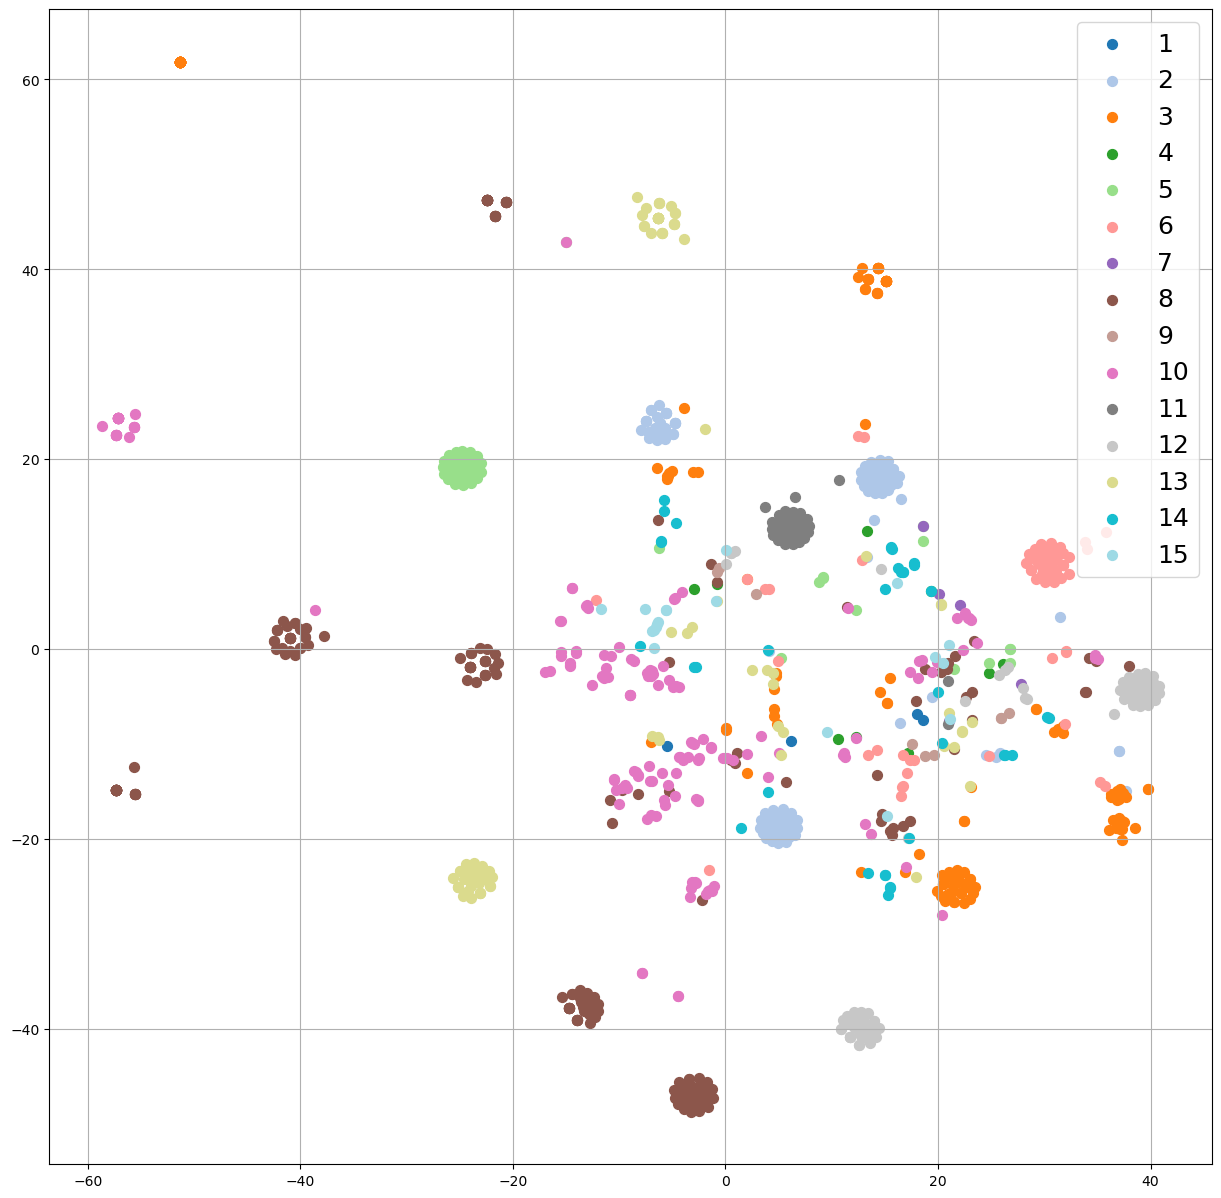
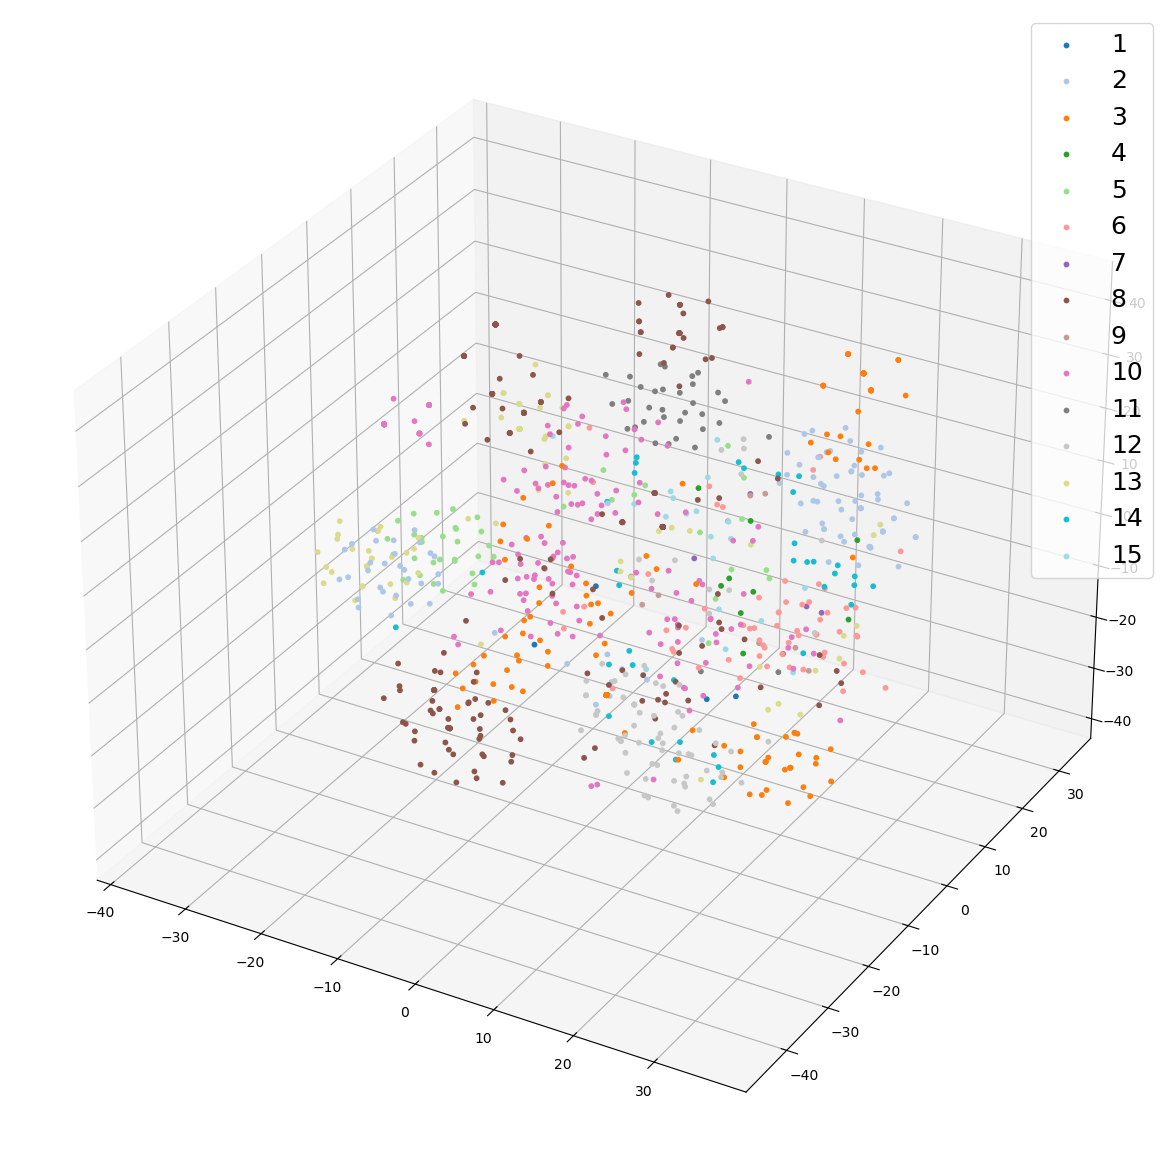
3d vector images

diff --git a/simulations/vectors.py b/simulations/vectors.py
@@ -13,20 +13,23 @@ def _plot_embeddings(labels: List[str], embeddings: np.array, agent_name: str, n
     labels = np.array(labels)
     unique_labels = np.unique(labels)
     colors = plt.get_cmap('tab20')(Normalize()(unique_labels))
-    plt.figure(figsize=(15, 15))
+    fig = plt.figure(figsize=(15, 15))
+    ax = fig.add_subplot(111, projection='3d')
     plt.grid()
 
     if color_by_generator:
         for j, label in enumerate(unique_labels):
             label_points = embeddings[labels == label]
-            plt.scatter(label_points[:, 0], label_points[:, 1], s=50, alpha=1.0, color=colors[j], label=label)
+            ax.scatter(label_points[:, 0], label_points[:, 1], label_points[:, 2], s=10, alpha=1.0, color=colors[j],
+                       label=label)
 
-        plt.legend(loc='best', fontsize='18')
+        ax.legend(loc='best', fontsize='18')
 
     else:
-        plt.scatter(embeddings[:, 0], embeddings[:, 1], s=50, alpha=1.0, color='green')
+        ax.scatter(embeddings[:, 0], embeddings[:, 1], embeddings[:, 2], s=10, alpha=1.0, color='green')
 
     image_name_adj = f'_c={n_cats}' if n_cats is not None else ''
+    # plt.show()
     plt.savefig(f'../simulations/vector_plots/{agent_name}{image_name_adj}.png', bbox_inches='tight')
     plt.clf()
 
@@ -124,8 +127,8 @@ for agent_name in ['AlegAATr', 'DQN']:
             all_vectors = np.array(vector_list) if all_vectors is None else np.concatenate(
                 [all_vectors, np.array(vector_list)])
 
-        _plot_embeddings(labels, TSNE(n_components=2).fit_transform(vectors), agent_name, i, color_by_generator=True)
+        # _plot_embeddings(labels, TSNE(n_components=3).fit_transform(vectors), agent_name, i, color_by_generator=True)
 
-    all_embeddings = TSNE(n_components=2).fit_transform(all_vectors)
+    all_embeddings = TSNE(n_components=3).fit_transform(all_vectors)
     _plot_embeddings(all_labels, all_embeddings, agent_name, color_by_generator=True)
     _evaluate_clustering(all_embeddings, agent_name)
